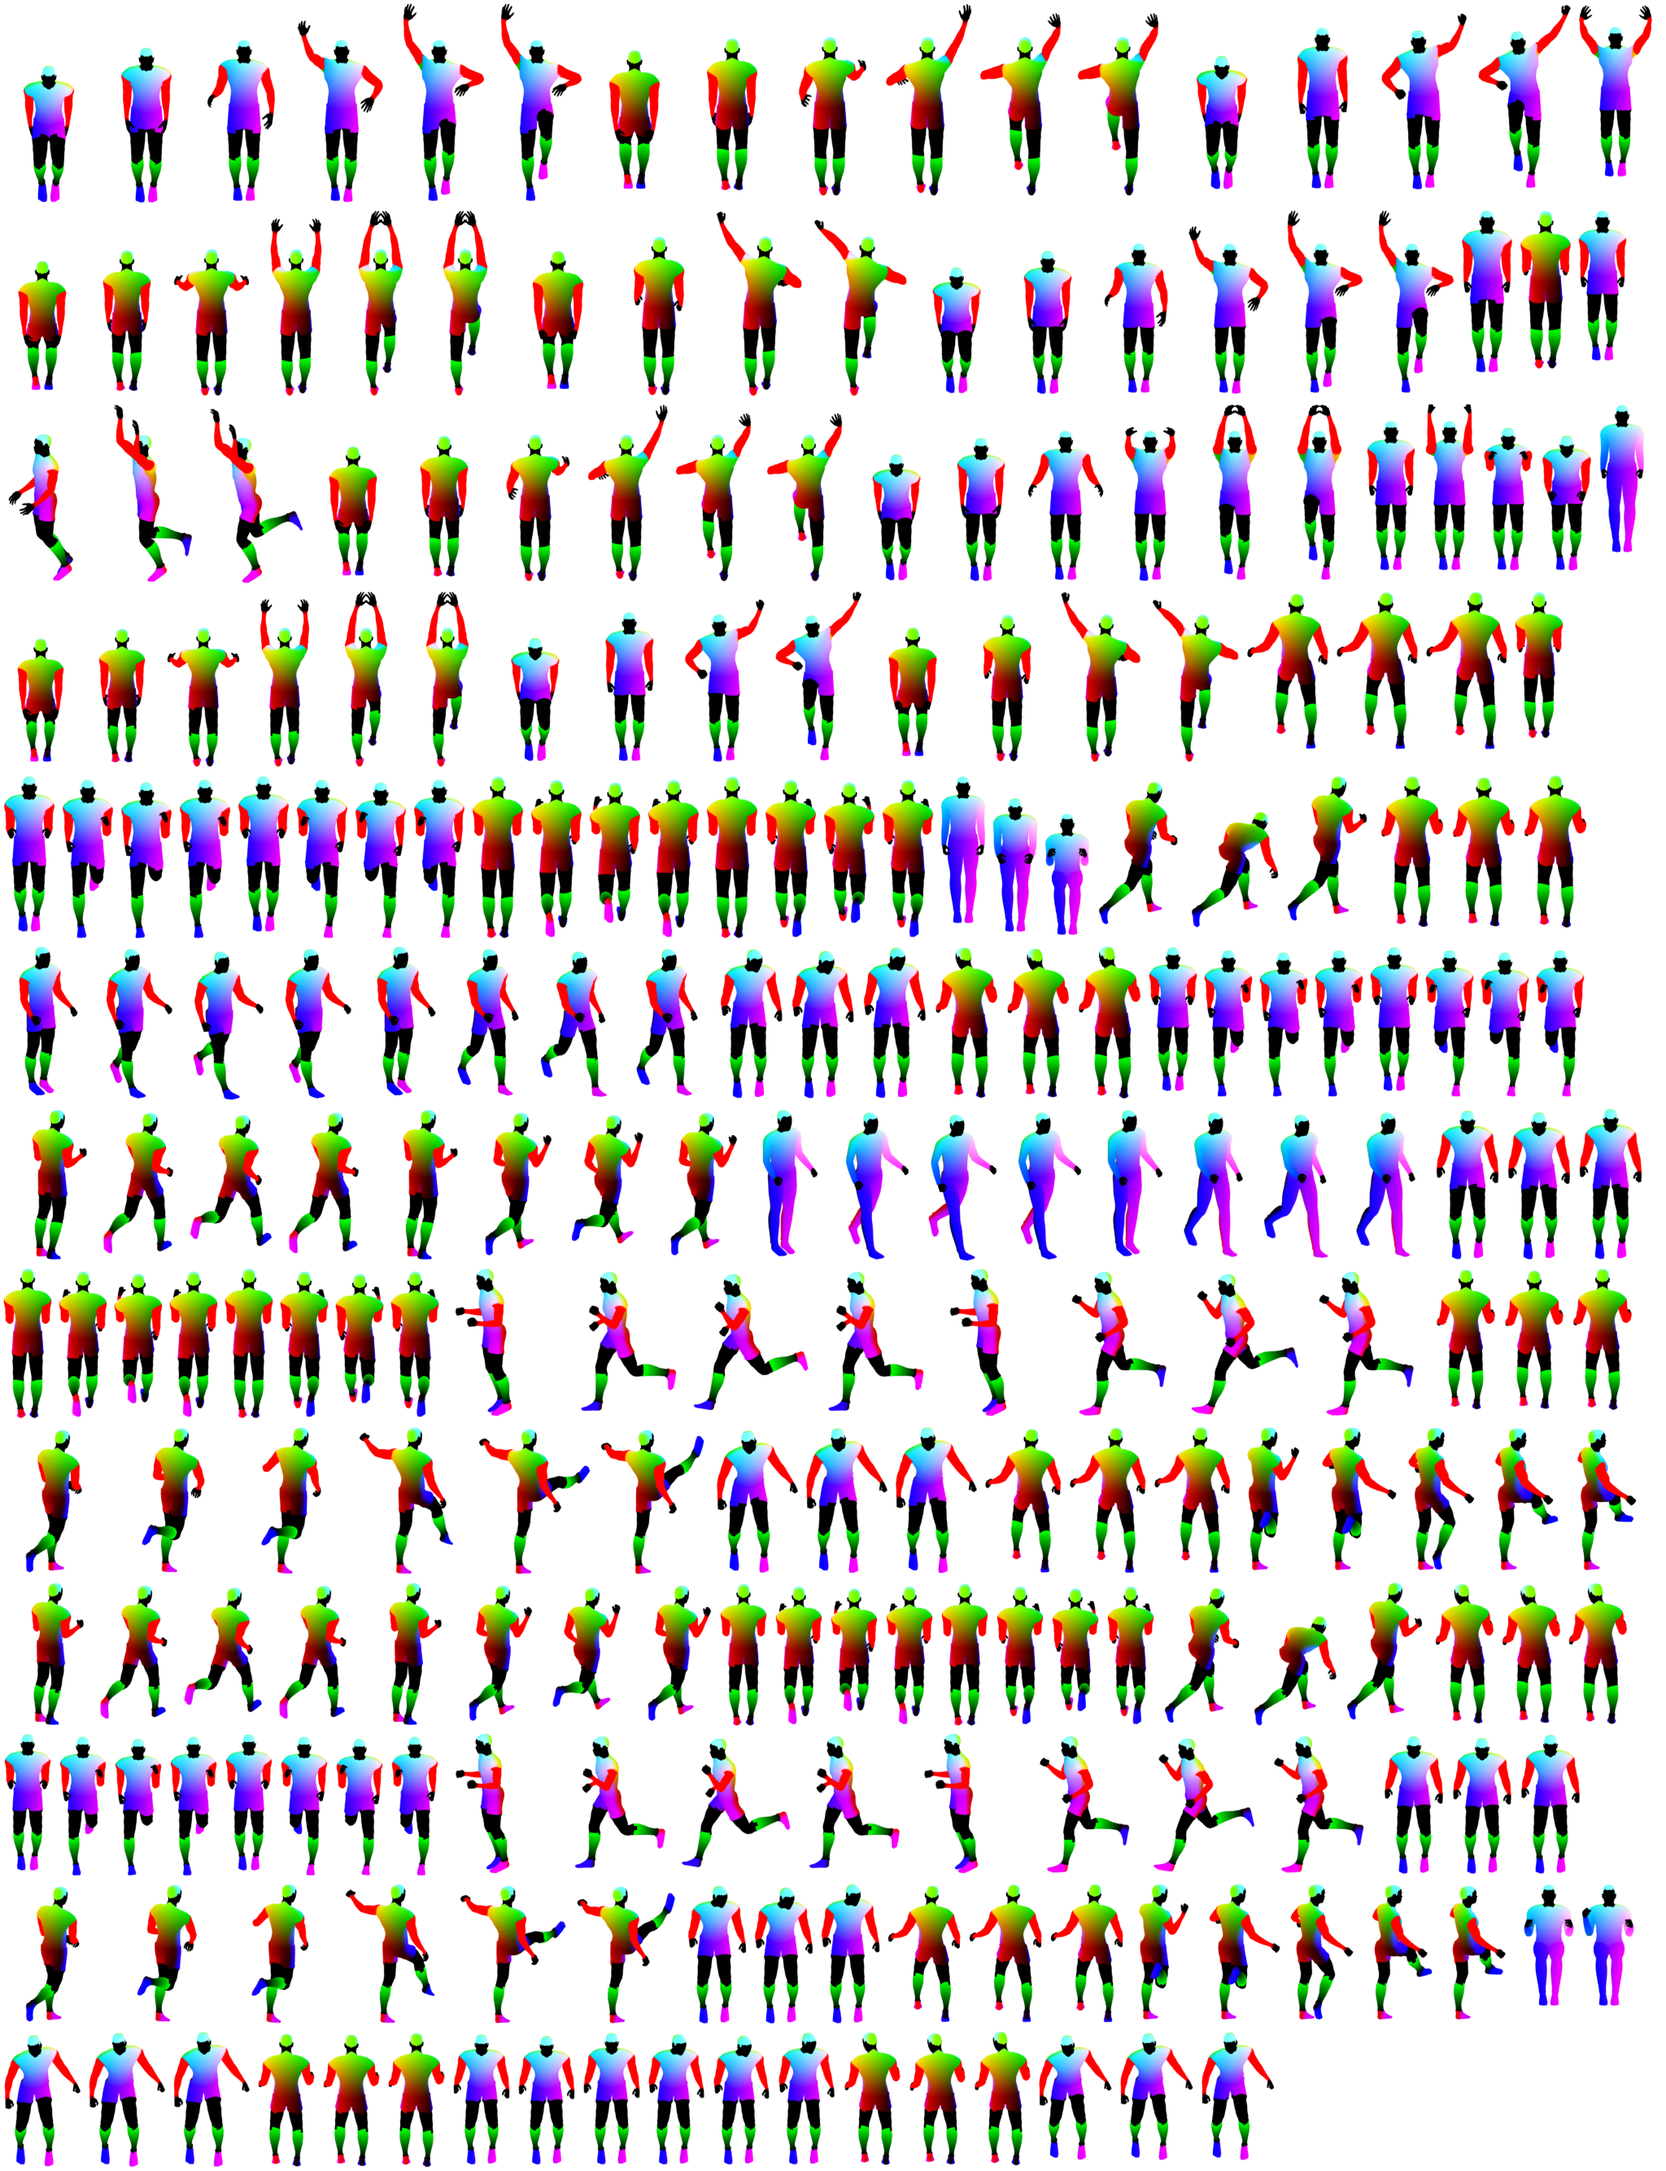
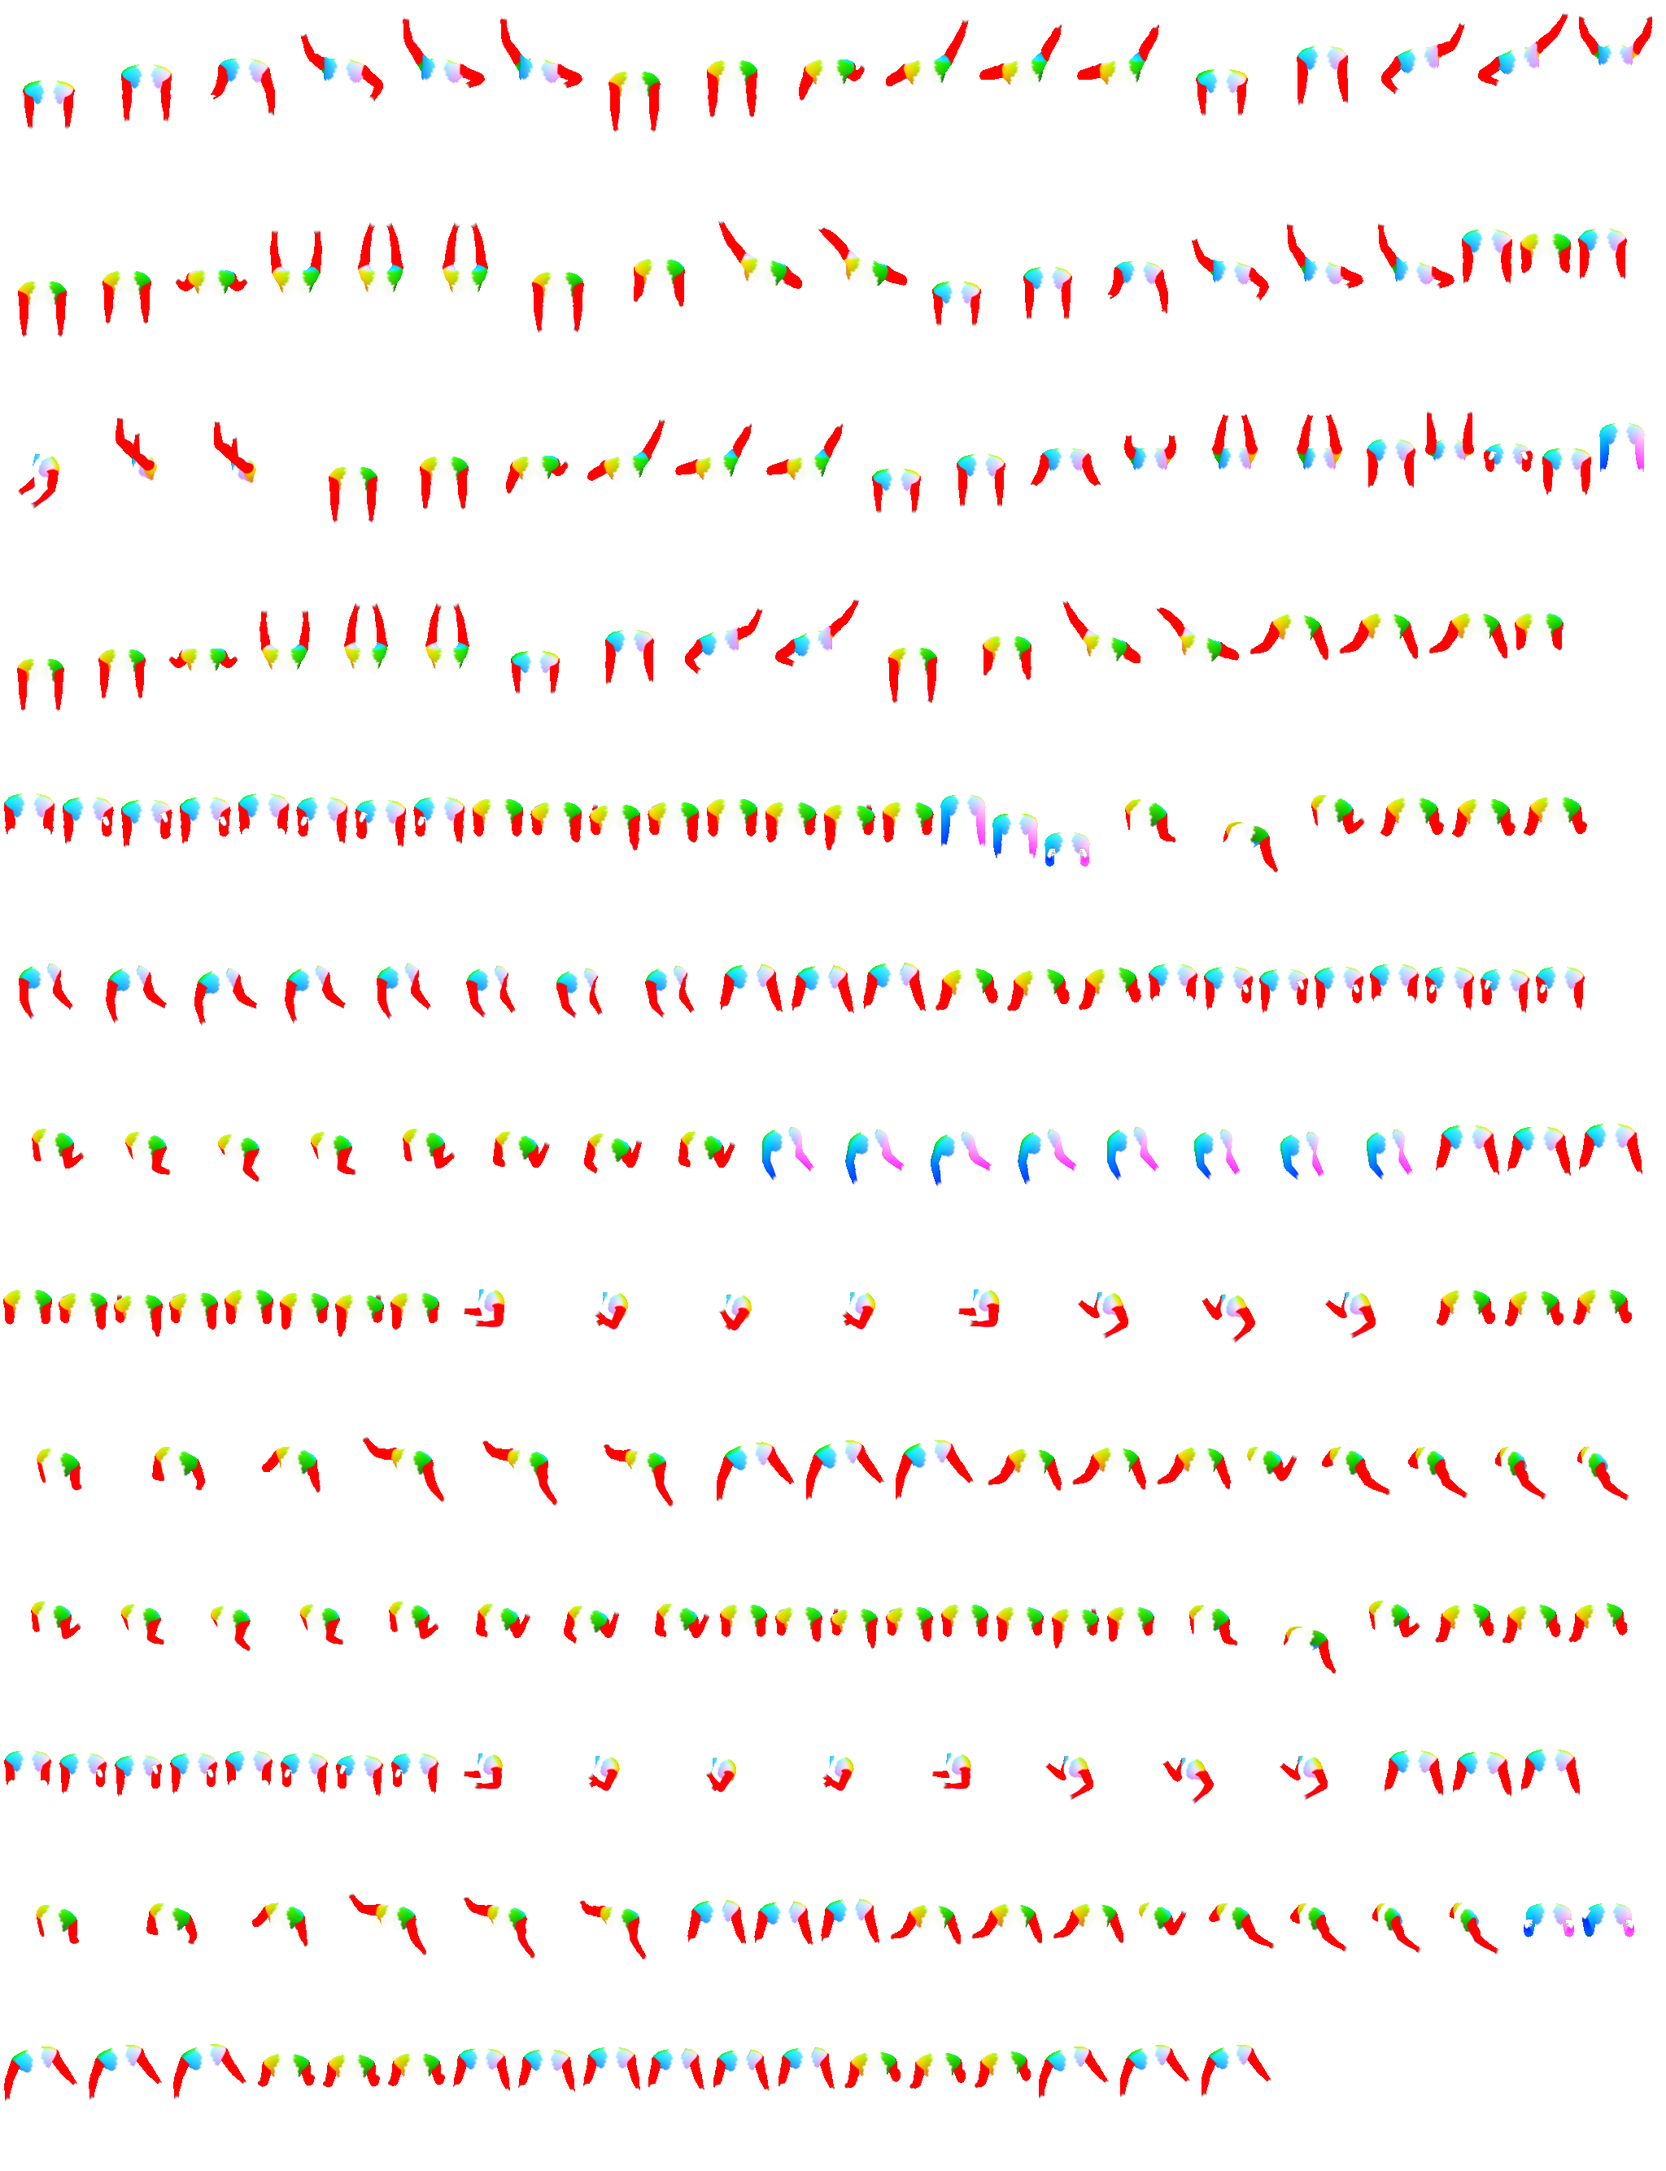
Kit options: long sleeves and sock hoops (rebuilt on the current figures) (#522)
* Kit options: long sleeves per player, sock hoops per kit (#368 rebuilt on the hair overlays)

Long sleeves are a player's own now, not a kit's: Appearance.long_sleeves(id, wet), a
roll on its own hash stream (about 15%, 25% in the wet), so nothing else about his
look changes. GameDB.figure_look carries it; the vignettes take wet from the match's
weather when it has one (MatchSim.weather, the result's or the hub's), false until then.
The figure's draw colour packs it with the kit and mirror: r = (kit*4 + sleeves*2 +
mirror)/16 (StoppageVignette.kit_code; look_colour, number_colour and the shader
decode together). The shader dresses a sleeved arm in the guernsey's base colour to
the wrist from the design sheet's arm channel (already in the bald base sheets).
Sock hoops stay a kit option (sock_hoops 1-3 in figure_material's kits; off unless a
kit asks). Tests: sleeve share and stability, the packing round-trip for every code,
hoops off by default. tools/visual/capture_kit_options.gd: the review sheet;
capture_vignette --kit-options as before.

(cherry picked from commit 62d9548f369d3ad350f3057c18e652b3119bb093)

* Long sleeves as a regular guernsey: no bare skin down the armhole (shader part of d3d1a1aa)

The sleeve pass itself (over the shoulder, no frill at the armhole) is already in main's
sheets: they were rendered after it in the art pipeline (02d89fc, before e0042d7 seams).
(cherry picked from commit d3d1a1aa, shader and .uid only)
[…]

diff --git a/docs/ROADMAP.md b/docs/ROADMAP.md
@@ -2831,6 +2831,7 @@ Goal: make player deployment intuitive, footy-authentic and consequential.
 - Windy has a breeze end per quarter.
 - A visible "Wet-weather player" trait.
 - Long sleeves: about 15% of a list wear them, up to 25% in the wet.
+- **Director decision (2026-10-08, #522):** the long-sleeve look is approved: the guernsey's top runs over the shoulder (a yoke or stripes), the sleeve below is the base colour, no bare shoulder. Sock hoops approved as shown (off until a kit sets them).
 
 **Evidence:** docs/research/WEATHER_EVIDENCE.md, the lead's own research and conclusions.
 
@@ -2852,7 +2853,7 @@ Goal: make player deployment intuitive, footy-authentic and consequential.
    - rain on the pitch and vignettes;
    - wind in flags and banners;
    - heat haze and hard shadows;
-   - long sleeves per player (#368, backlog item).
+   - long sleeves per player (#522, which replaces #368; look approved 2026-10-08).
    Zero result effect from the look itself.
 
 **Validation:**
